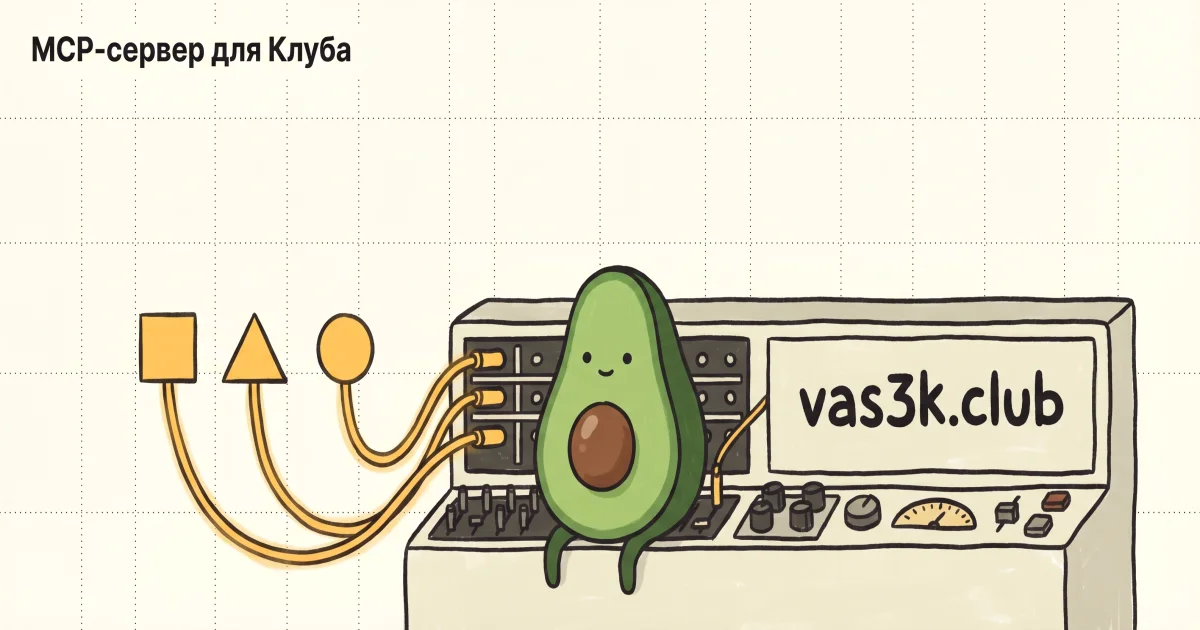
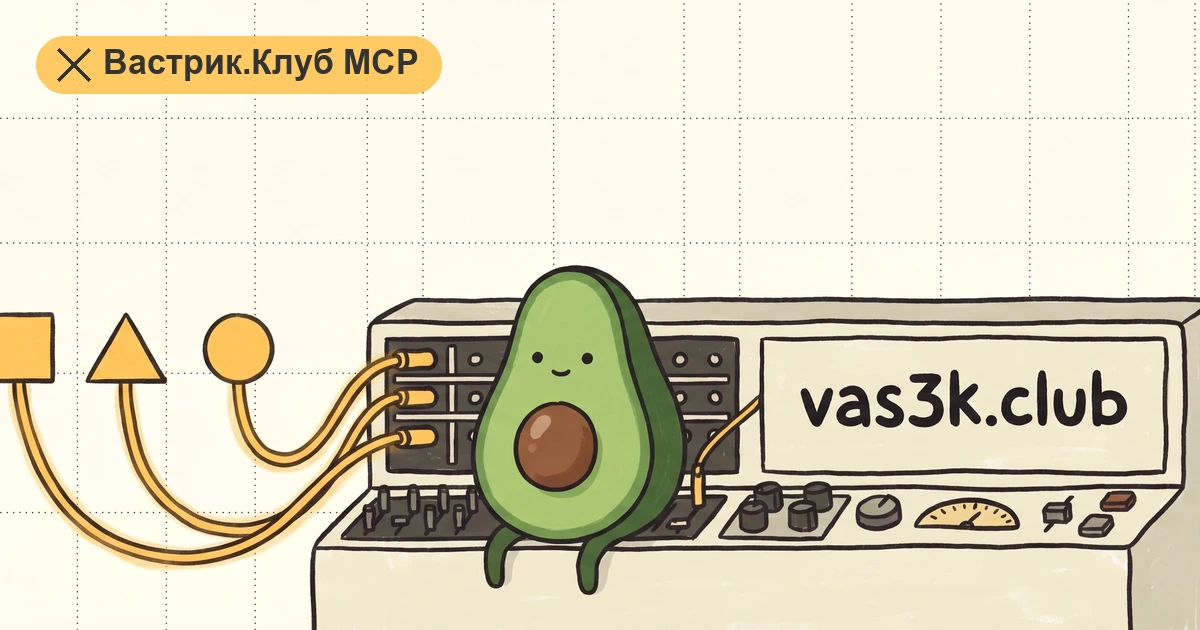
feat(og): higher-quality OG image with hero-tag overlay
- Replace OG source with the cleaner avocado-synth illustration the user
  dropped (readme-hero-v1.jpeg, no on-image text). Old card label
  "MCP-сервер для Клуба" duplicated the link-preview headline.
- Composite the landing's "✖ Вастрик.Клуб MCP" hero tag onto the OG via
  ci/og-overlay.py — yellow pill, dark X drawn as two strokes (avoids
  font dependency on U+2716), top-left in the empty graph-paper space.
- Bump cwebp quality 85→92 across OG/readme-hero so the next round
  doesn't ship the JPEG-of-WebP-of-JPEG artifact pile.
- og.png: ship the lossless composited PNG (~640K) instead of resampling
  through sips — quality knob lives entirely in the cwebp pass.
- Makefile: each line in the `images` target no-ops when its source
  isn't present, so adding new exports per-asset doesn't break the rest.
- .gitignore: also exclude .jpg / .jpeg source exports.
- deploy.yml: add `public/**` to the paths filter so static-asset
  changes (like this one) actually redeploy.

Changed region(s): [[0.0, 0.4222, 1.0, 1.0], [0.0, 0.0302, 0.37, 0.1508], [0.7092, 0.4524, 0.74, 0.4825]]

diff --git a/ci/og-overlay.py b/ci/og-overlay.py
@@ -1,0 +1,122 @@
+"""Composite the hero tag onto the OG source image.
+
+Usage: og-overlay.py <input> <output>
+
+Cover-crops the input to 1200x630, then draws the rounded-pill hero tag
+'✖ Вастрик.Клуб MCP' top-left, mirroring the landing page's `.hero-tag`
+style (yellow accent, dark text, full-pill radius). The X mark is drawn
+as two vector strokes so we don't depend on a font that ships U+2716.
+Writes lossless PNG; the downstream `cwebp` pass controls quality.
+"""
+
+import sys
+
+from PIL import Image, ImageDraw, ImageFont
+
+# Mirrors landing.ts `.hero-tag` colors:
+#   --accent: rgba(255, 196, 85, 0.91)
+#   color: #333
+ACCENT_RGBA = (255, 196, 85, 232)
+TEXT_RGB = (51, 51, 51)
+TEXT = "\u0412\u0430\u0441\u0442\u0440\u0438\u043a.\u041a\u043b\u0443\u0431 MCP"
+
+# OG card dimensions per the og:image:width/height meta tags.
+TARGET_W, TARGET_H = 1200, 630
+
+FONT_CANDIDATES = [
+    "/System/Library/Fonts/Supplemental/Arial Bold.ttf",
+    "/System/Library/Fonts/HelveticaNeue.ttc",
+    "/System/Library/Fonts/Helvetica.ttc",
+    "/System/Library/Fonts/Supplemental/Arial.ttf",
+]
+
+
+def load_font(size: int) -> ImageFont.ImageFont:
+    for path in FONT_CANDIDATES:
+        try:
+            return ImageFont.truetype(path, size)
+        except OSError:
+            continue
+    return ImageFont.load_default()
+
+
+def cover_crop(img: Image.Image, w: int, h: int) -> Image.Image:
+    """Resize + center-crop to (w, h) preserving aspect."""
+    src_w, src_h = img.size
+    src_ratio = src_w / src_h
+    target_ratio = w / h
+    if src_ratio > target_ratio:
+        new_h = h
+        new_w = round(new_h * src_ratio)
+        img = img.resize((new_w, new_h), Image.Resampling.LANCZOS)
+        left = (new_w - w) // 2
+        return img.crop((left, 0, left + w, h))
+    new_w = w
+    new_h = round(new_w / src_ratio)
+    img = img.resize((new_w, new_h), Image.Resampling.LANCZOS)
+    top = (new_h - h) // 2
+    return img.crop((0, top, w, top + h))
+
+
+def main() -> None:
+    if len(sys.argv) != 3:
+        print("usage: og-overlay.py <input> <output>", file=sys.stderr)
+        sys.exit(1)
+
+    img = cover_crop(Image.open(sys.argv[1]).convert("RGB"), TARGET_W, TARGET_H)
+    overlay = Image.new("RGBA", img.size, (0, 0, 0, 0))
+    draw = ImageDraw.Draw(overlay)
+
+    font = load_font(34)
+    text_bbox = draw.textbbox((0, 0), TEXT, font=font)
+    text_w = text_bbox[2] - text_bbox[0]
+    text_h = text_bbox[3] - text_bbox[1]
+
+    # Hand-drawn-style heavy X to the left of the text. Size it to the
+    # text x-height so it visually anchors with the letterforms.
+    x_size = round(text_h * 0.95)
+    x_gap = 14  # space between X and text
+
+    pad_x, pad_y = 22, 12
+    pill_w = pad_x * 2 + x_size + x_gap + text_w
+    pill_h = pad_y * 2 + text_h
+
+    margin = 36
+    x, y = margin, margin
+
+    # Pill background
+    draw.rounded_rectangle(
+        (x, y, x + pill_w, y + pill_h),
+        radius=pill_h // 2,
+        fill=ACCENT_RGBA,
+    )
+
+    # X mark — two crossing strokes
+    x_left = x + pad_x
+    x_top = y + pad_y + (text_h - x_size) // 2
+    stroke = max(4, x_size // 6)
+    draw.line(
+        ((x_left, x_top), (x_left + x_size, x_top + x_size)),
+        fill=TEXT_RGB,
+        width=stroke,
+    )
+    draw.line(
+        ((x_left, x_top + x_size), (x_left + x_size, x_top)),
+        fill=TEXT_RGB,
+        width=stroke,
+    )
+
+    # Text
+    draw.text(
+        (x_left + x_size + x_gap - text_bbox[0], y + pad_y - text_bbox[1]),
+        TEXT,
+        font=font,
+        fill=TEXT_RGB,
+    )
+
+    composited = Image.alpha_composite(img.convert("RGBA"), overlay).convert("RGB")
+    composited.save(sys.argv[2], "PNG", optimize=True)
+
+
+if __name__ == "__main__":
+    main()
